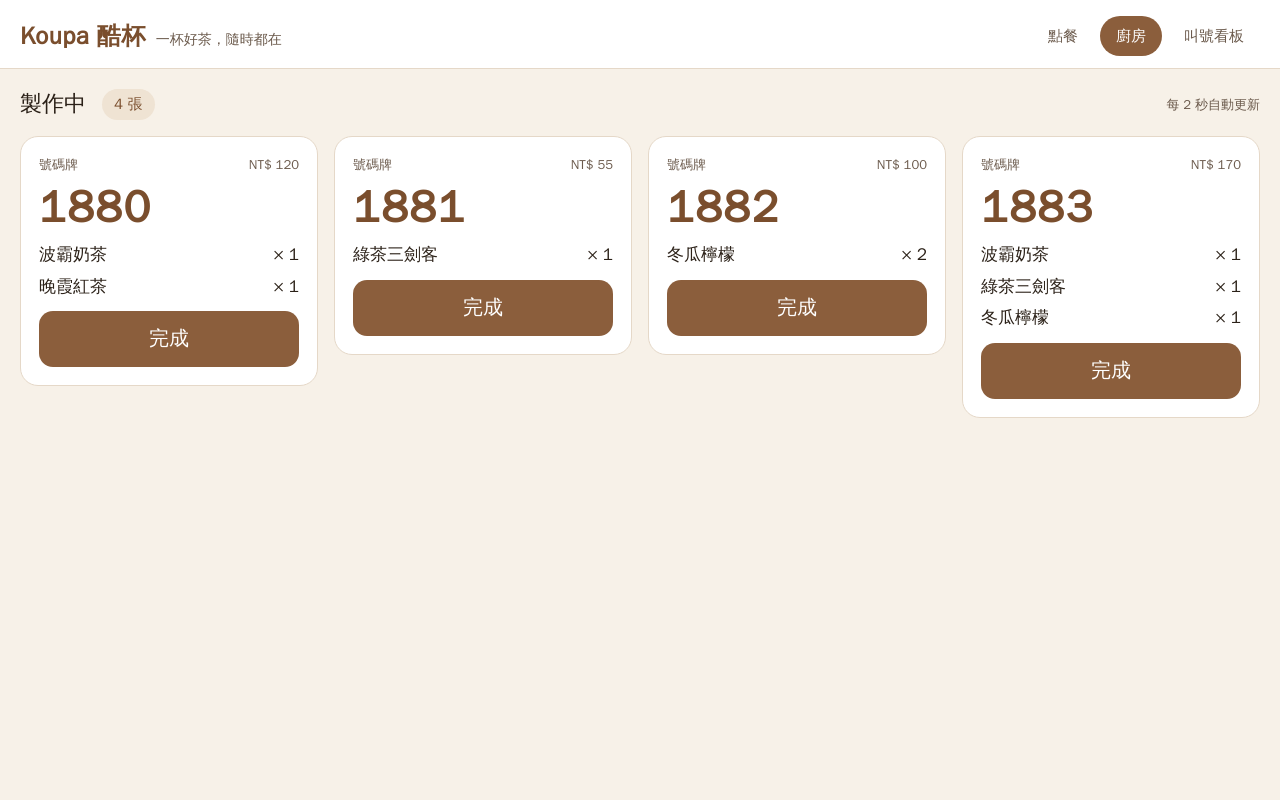
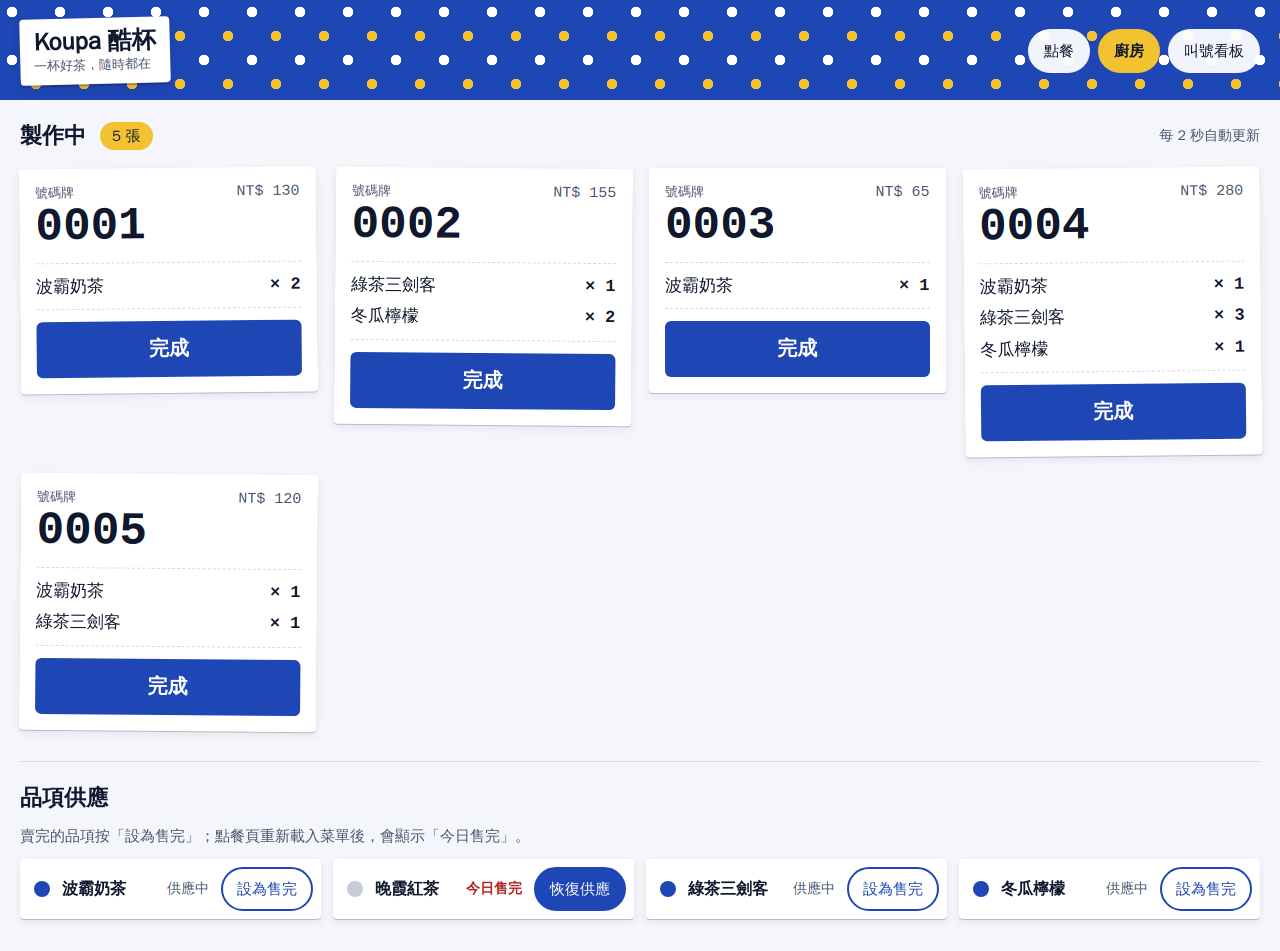
docs(app): new screenshots and captions for the sealing-film pages
Claude-Session: https://claude.ai/code/session_017FmE8k6nqVAKhNRYT9ZjwB

diff --git a/01/docs/koupa-app.md b/01/docs/koupa-app.md
@@ -4,7 +4,7 @@
 
 這份文件介紹第一階段用的範例應用 Koupa 酷杯：它由哪些部分組成、怎麼部署到 Kubernetes、部署完怎麼確認連得到。升級時會出什麼問題、每一步怎麼修，請看[學生講義](../README.md)；講課要點請看[講師手冊](../TEACHER.md)。
 
-Koupa 酷杯是一家虛構的手搖飲店。客人在點餐頁下單，拿到號碼牌；廚房做好後按「完成」；店裡的叫號看板跳出「請 0058 號取餐 🧋」。整個 App 是一支 Go 程式，資料存在 PostgreSQL：
+Koupa 酷杯是一家虛構的手搖飲店。客人在點餐頁下單，拿到號碼牌；廚房做好後按「完成」；店裡的叫號看板跳出「請 0058 號取餐」。整個 App 是一支 Go 程式，資料存在 PostgreSQL：
 
 ![Koupa 酷杯 App 的組成：三個頁面、koupa App、PostgreSQL](koupa-app/app.svg)
 
@@ -174,20 +174,20 @@ data: {"version":"v1"}
 
 ### 畫面
 
-下面是在課程叢集上用瀏覽器連 `http://<Gateway IP>` 截的圖，連線正常時應該看到一樣的畫面：
+下面是 v2 的畫面（本機測試資料庫，晚霞紅茶設為售完），在課程叢集上用瀏覽器連 `http://<Gateway IP>` 應該看到一樣的畫面：
 
 | 點餐頁（手機寬度） | 下單完成 |
 |---|---|
-| ![點餐頁：四種飲料的照片、價格和 −／＋，下方顯示已選 2 杯、NT$ 120 和「確認點餐」](koupa-app/screenshots/order.png) | ![下單完成：大字號碼牌 1880 和這張單的明細](koupa-app/screenshots/order-done.png) |
-| 選了兩杯，下方顯示杯數和金額 | 送出後拿到號碼牌和明細 |
+| ![點餐頁：四種飲料各是一個圓形杯封膜加一張標籤貼紙，寫著品名、價格和 −／＋；晚霞紅茶售完變灰，下方貼紙列顯示 2 杯 / NT$ 120 和「確認點餐」](koupa-app/screenshots/order.png) | ![下單完成：藍底圓點杯封膜上貼著一張大字號碼牌 0005 的貼紙，下面是這張單的明細](koupa-app/screenshots/order-done.png) |
+| 選了兩杯，下方顯示杯數和金額；售完的品項變灰、不能點 | 送出後拿到號碼牌和明細 |
 
-![廚房頁：4 張製作中的訂單，每張有號碼牌、品項和「完成」按鈕](koupa-app/screenshots/kitchen.png)
+![廚房頁：5 張製作中的訂單標籤，每張有號碼牌、品項和「完成」按鈕；下方「品項供應」裡晚霞紅茶設為今日售完](koupa-app/screenshots/kitchen.png)
 
-廚房頁：製作中的訂單，每張按「完成」出餐。
+廚房頁：每張製作中的訂單是一張標籤，做好按「完成」出餐；下方「品項供應」設定售完（v2）。
 
-![叫號看板：左邊製作中 1881～1883，右邊大字「請 1880 號取餐」](koupa-app/screenshots/board.png)
+![叫號看板：左邊製作中 0002～0005，右邊藍底圓點杯封膜上貼著「請 0001 號取餐」的貼紙](koupa-app/screenshots/board.png)
 
-叫號看板：1880 號整張單完成後，從左邊的「製作中」移到右邊叫號。
+叫號看板：0001 號整張單完成後，從左邊的「製作中」移到右邊叫號。
 
 ## 切換 v1 和 v2
 

diff --git a/01/docs/design-v2/03-app-and-data.md b/01/docs/design-v2/03-app-and-data.md
@@ -8,7 +8,7 @@
 |---|---|---|
 | 點餐頁 | 短連線 | 一張單可以點多種飲料、每種可以點多杯，顯示合計金額。送出 `POST /orders` 後拿到號碼牌 |
 | 廚房頁 | 短連線 | 定期更新「製作中」的訂單清單，按「完成」送出 `POST /orders/{id}/ready` |
-| 叫號看板 | 長連線（SSE） | 整張單都完成才叫號，畫面顯示「請 0058 號取餐 🧋」 |
+| 叫號看板 | 長連線（SSE） | 整張單都完成才叫號，畫面顯示「請 0058 號取餐」 |
 
 App 另外提供兩個量測專用的 API，頁面不會用到：
 
